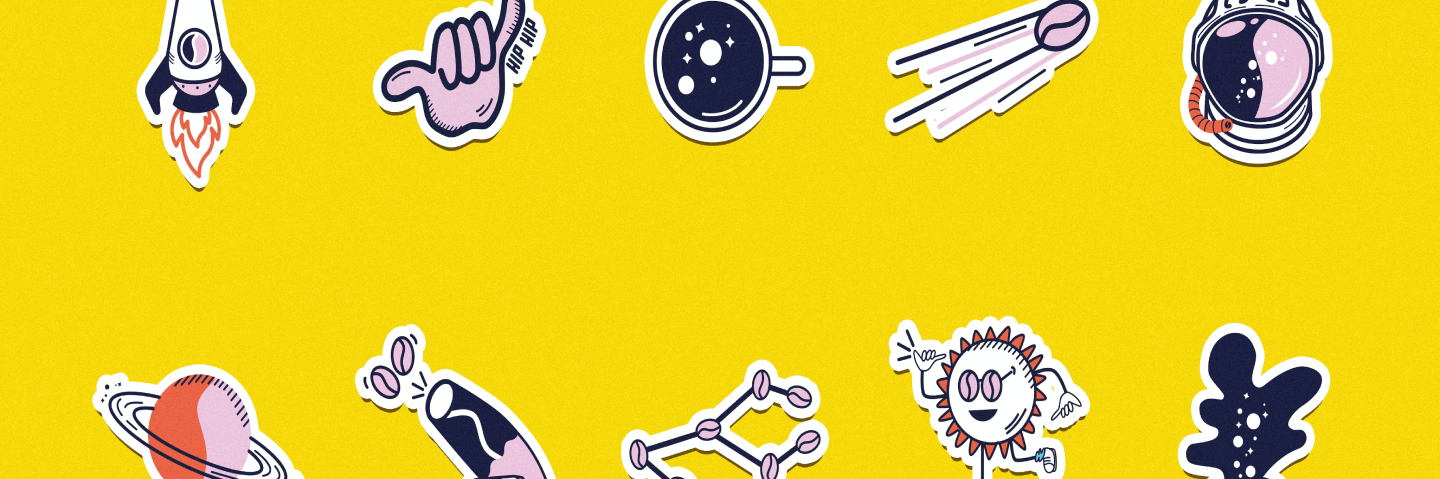
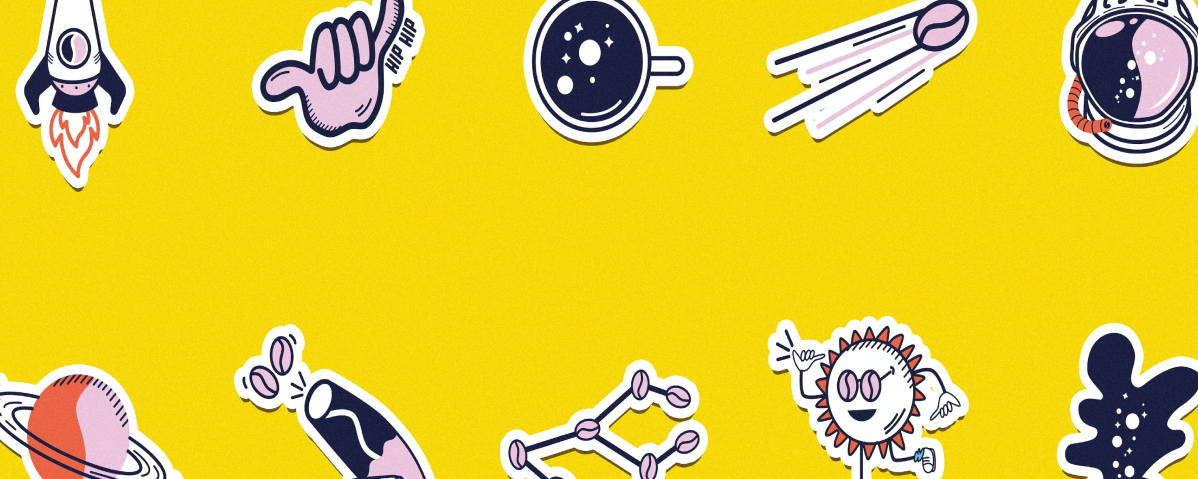
add project

diff --git a/index.html b/index.html
@@ -11,7 +11,9 @@
     <link href="https://cdn.jsdelivr.net/npm/bootstrap@5.1.3/dist/css/bootstrap.min.css" rel="stylesheet" async>
     <script src="https://cdn.jsdelivr.net/npm/bootstrap@5.1.3/dist/js/bootstrap.bundle.min.js"></script>
     <!-- fontawesome -->
-    <link rel="stylesheet" href="https://cdnjs.cloudflare.com/ajax/libs/font-awesome/6.5.2/css/all.min.css" integrity="sha512-SnH5WK+bZxgPHs44uWIX+LLJAJ9/2PkPKZ5QiAj6Ta86w+fsb2TkcmfRyVX3pBnMFcV7oQPJkl9QevSCWr3W6A==" crossorigin="anonymous" referrerpolicy="no-referrer" />
+    <link rel="stylesheet" href="https://cdnjs.cloudflare.com/ajax/libs/font-awesome/6.5.2/css/all.min.css"
+        integrity="sha512-SnH5WK+bZxgPHs44uWIX+LLJAJ9/2PkPKZ5QiAj6Ta86w+fsb2TkcmfRyVX3pBnMFcV7oQPJkl9QevSCWr3W6A=="
+        crossorigin="anonymous" referrerpolicy="no-referrer" />
 </head>
 
 <body>
@@ -130,12 +132,13 @@
                 <div class="col-lg-4 mt-4 contactColumn">
                     <i class="fa-brands fa-linkedin-in fa-4x"></i>
                     <h4>LinkedIn</h4>
-                    <a>https://www.linkedin.com/in/nathan-carteau/</a>
+                    <a href="https://www.linkedin.com/in/nathan-carteau/">https://www.linkedin.com/in/nathan-carteau/</a>
                 </div>
             </div>
         </div>
     </section>
 </body>
 <!-- load javascript after loading all html content -->
-    <script src="script/script.js"></script>
+<script src="script/script.js"></script>
+
 </html>

diff --git a/style.css b/style.css
@@ -26,7 +26,7 @@
 .bgimage {
     height: 100vh;
     max-height: 900px;
-    background: url("images/image1.jpg");
+    background: url("images/backgroundHeader.jpg");
     background-size: cover;
     position: relative;
 }
